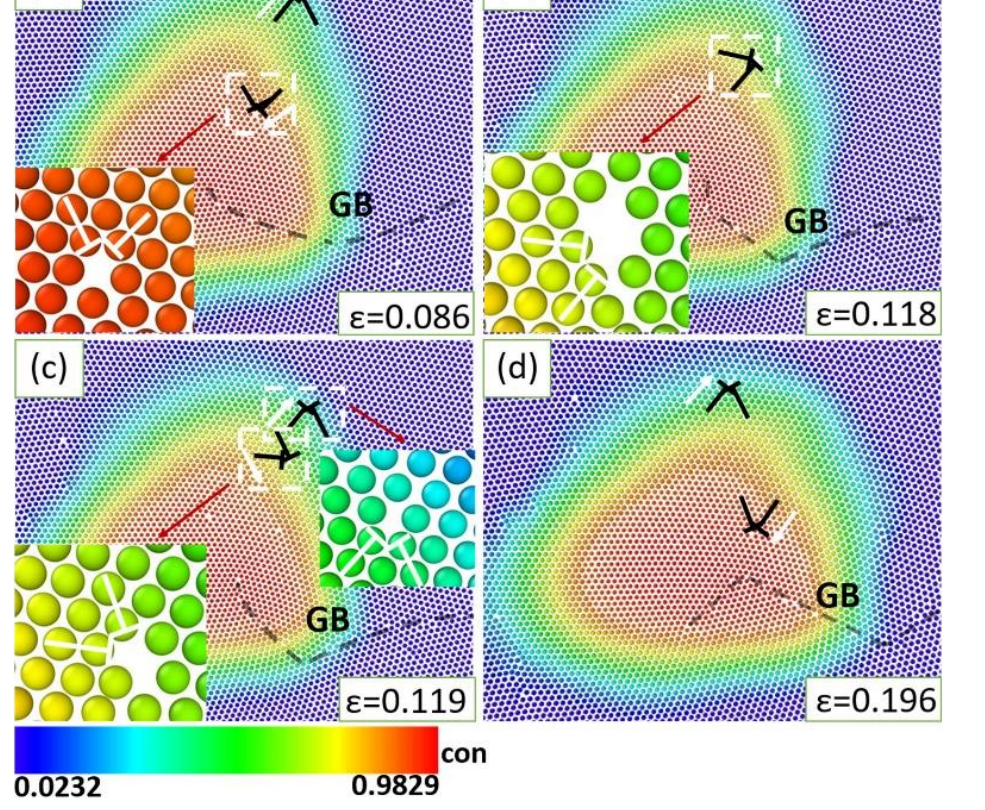
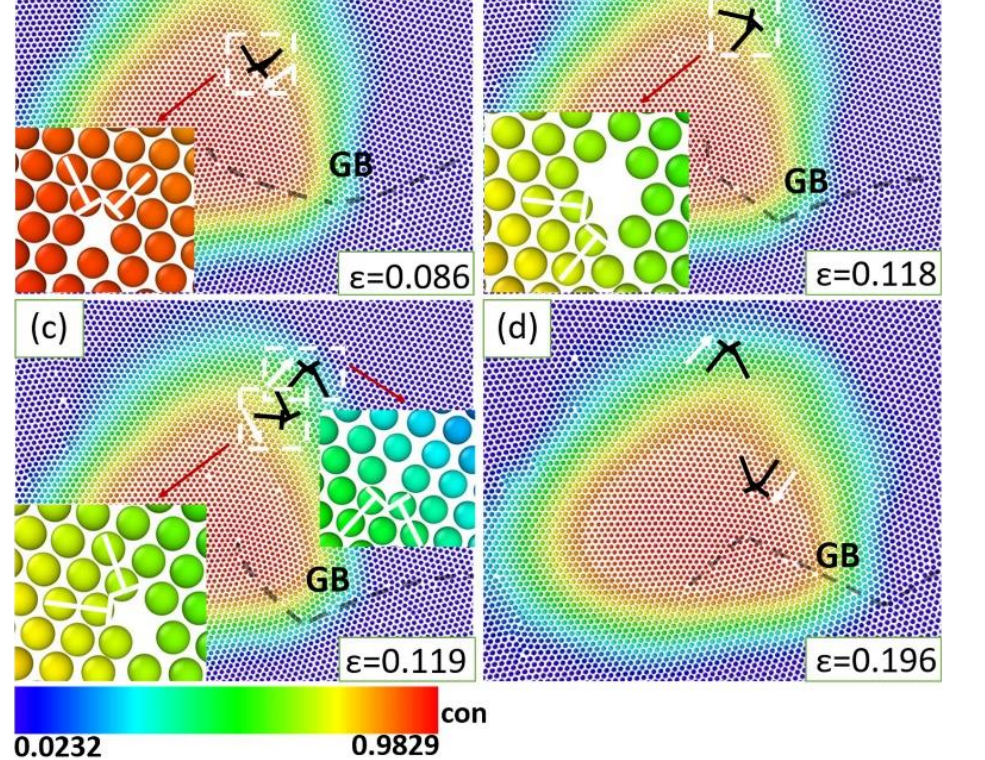
Update MID-NANO product page and case studies

diff --git a/i18n.js b/i18n.js
@@ -1464,49 +1464,39 @@ const translations = {
             },
             functions: {
                 item1: {
-                    zh: "灵活自定义微结构建模",
-                    en: "Flexible custom microstructure modeling",
-                    fr: "Modelisation microstructurale personnalisee et flexible"
+                    zh: "微结构建模",
+                    en: "Microstructure modeling",
+                    fr: "Modelisation microstructurale"
                 },
                 item2: {
-                    zh: "晶格结构演化模拟",
-                    en: "Lattice structure evolution simulation",
-                    fr: "Simulation de l'evolution des structures de reseau"
+                    zh: "晶格结构演化",
+                    en: "Lattice structure evolution",
+                    fr: "Evolution des structures de reseau"
                 },
                 item3: {
-                    zh: "多元多相体系晶体相场求解",
-                    en: "Crystal phase-field solving for multicomponent multiphase systems",
-                    fr: "Resolution par champ de phase cristallin pour systemes multicomposants multiphases"
+                    zh: "晶体相场求解",
+                    en: "Crystal phase-field solving",
+                    fr: "Resolution par champ de phase cristallin"
                 },
                 item4: {
-                    zh: "温度场耦合演化求解",
-                    en: "Temperature-field coupled evolution solving",
-                    fr: "Resolution couplee avec champ de temperature"
+                    zh: "温度场、应力场耦合",
+                    en: "Temperature- and stress-field coupling",
+                    fr: "Couplage des champs de temperature et de contraintes"
                 },
                 item5: {
-                    zh: "应力场耦合演化求解",
-                    en: "Stress-field coupled evolution solving",
-                    fr: "Resolution couplee avec champ de contraintes"
+                    zh: "缺陷与位错演化",
+                    en: "Defect and dislocation evolution",
+                    fr: "Evolution des defauts et des dislocations"
                 },
                 item6: {
-                    zh: "缺陷结构表征与演化模拟",
-                    en: "Defect structure characterization and evolution simulation",
-                    fr: "Caracterisation et simulation de l'evolution des structures de defauts"
-                },
-                item7: {
-                    zh: "位错形成与运动模拟",
-                    en: "Dislocation formation and motion simulation",
-                    fr: "Simulation de la formation et du mouvement des dislocations"
-                },
-                item8: {
-                    zh: "界面迁移与界面失稳分析",
-                    en: "Interface migration and interface instability analysis",
+                    zh: "界面迁移与失稳分析",
+                    en: "Interface migration and instability analysis",
                     fr: "Analyse de la migration et de l'instabilite des interfaces"
                 },
-                item9: {
-                    zh: "AI 辅助求解加速方案",
-                    en: "AI-assisted solver acceleration solutions",
-                    fr: "Solutions d'acceleration de solveurs assistees par IA"
+                item7: {
+                    zh: "增材制造过程模拟",
+                    en: "Additive manufacturing process simulation",
+                    fr: "Simulation des procedes de fabrication additive"
                 }
             },
             demoTitle: {
@@ -1548,39 +1538,39 @@ const translations = {
             },
             advantages: {
                 item1: {
+                    zh: "向导式 GUI",
+                    en: "Guided GUI",
+                    fr: "Interface guidee"
+                },
+                item2: {
+                    zh: "操作流程清晰、学习成本低",
+                    en: "Clear workflow with a low learning curve",
+                    fr: "Processus clair et faible cout d'apprentissage"
+                },
+                item3: {
+                    zh: "结果可视化",
+                    en: "Result visualization",
+                    fr: "Visualisation des resultats"
+                },
+                item4: {
+                    zh: "数据分析与导出",
+                    en: "Data analysis and export",
+                    fr: "Analyse et export des donnees"
+                },
+                item5: {
+                    zh: "模块化架构",
+                    en: "Modular architecture",
+                    fr: "Architecture modulaire"
+                },
+                item6: {
                     zh: "多场求解器自主可控",
                     en: "Independently controllable multiphysics solvers",
                     fr: "Solveurs multiphysiques autonomes et controlables"
                 },
-                item2: {
-                    zh: "完全自主知识产权",
-                    en: "Fully independent intellectual property rights",
-                    fr: "Droits de propriete intellectuelle entierement independants"
-                },
-                item3: {
-                    zh: "模块化的软件开发框架",
-                    en: "Modular software development framework",
-                    fr: "Architecture logicielle modulaire"
-                },
-                item4: {
-                    zh: "图形化操作界面，用户友好",
-                    en: "Graphical and user-friendly interface",
-                    fr: "Interface graphique et conviviale"
-                },
-                item5: {
-                    zh: "完善的多尺度模拟方案",
-                    en: "Comprehensive multiscale simulation solutions",
-                    fr: "Solutions completes de simulation multi-echelle"
-                },
-                item6: {
-                    zh: "开放灵活的二次开发接口",
-                    en: "Open and flexible secondary development interfaces",
-                    fr: "Interfaces ouvertes et flexibles pour developpement secondaire"
-                },
                 item7: {
-                    zh: "面向晶体相场模型的专门化设计",
-                    en: "Specialized design for crystal phase-field models",
-                    fr: "Conception specialisee pour les modeles de champ de phase cristallin"
+                    zh: "开放的二次开发接口",
+                    en: "Open secondary development interfaces",
+                    fr: "Interfaces ouvertes de developpement secondaire"
                 }
             },
             applications: {
@@ -1609,6 +1599,59 @@ const translations = {
                     en: "Low-dimensional spinodal decomposition within interfaces",
                     fr: "Decomposition spinodale de basse dimension aux interfaces"
                 }
+            },
+            additiveTitle: {
+                zh: "增材制造模拟",
+                en: "Additive Manufacturing Simulation",
+                fr: "Simulation de la fabrication additive"
+            },
+            additiveIntro: {
+                zh: "面向选区激光烧结与激光熔融过程，模拟激光热输入、熔池演化、快速凝固及晶体组织形成，分析工艺参数对熔池稳定性、致密度和微观组织的影响。",
+                en: "Simulate selective laser sintering and laser melting, including laser heat input, melt-pool evolution, rapid solidification, and crystal-structure formation.",
+                fr: "Simulation du frittage laser sur lit de poudre et de la fusion laser, incluant l'apport thermique, l'evolution du bain de fusion et la solidification rapide."
+            },
+            additive: {
+                item1: { zh: "激光粉末床烧结与熔融过程模拟", en: "Laser powder-bed sintering and melting simulation", fr: "Simulation du frittage et de la fusion laser sur lit de poudre" },
+                item2: { zh: "激光功率、扫描速度与预热条件分析", en: "Analysis of laser power, scan speed, and preheating conditions", fr: "Analyse de la puissance laser, de la vitesse de balayage et du prechauffage" },
+                item3: { zh: "熔池温度场、深度与连续性预测", en: "Prediction of melt-pool temperature, depth, and continuity", fr: "Prediction de la temperature, de la profondeur et de la continuite du bain de fusion" },
+                item4: { zh: "烧结致密度与工艺窗口分析", en: "Sintering density and process-window analysis", fr: "Analyse de la densite de frittage et de la fenetre de procede" },
+                item5: { zh: "柱状晶与等轴晶竞争生长模拟", en: "Simulation of competitive columnar and equiaxed grain growth", fr: "Simulation de la croissance competitive des grains colonnaires et equiaxes" },
+                demos: {
+                    process: { zh: "激光粉末床烧结过程与温度场演化", en: "Laser powder-bed sintering and temperature-field evolution", fr: "Evolution du frittage laser et du champ de temperature" },
+                    window: { zh: "激光参数对熔池和烧结致密度的影响", en: "Effects of laser parameters on melt pools and sintering density", fr: "Effets des parametres laser sur le bain de fusion et la densite" },
+                    grains: { zh: "柱状晶与等轴晶竞争生长", en: "Competitive columnar and equiaxed grain growth", fr: "Croissance competitive des grains colonnaires et equiaxes" }
+                }
+            },
+            workflowTitle: { zh: "向导式 GUI 与结果可视化", en: "Guided GUI and Result Visualization", fr: "Interface guidee et visualisation des resultats" },
+            workflowIntro: { zh: "向导式 GUI 将复杂模拟流程拆解为五步，帮助用户完成参数设置、计算域定义、外力条件配置、演化模拟和结果分析。", en: "The guided GUI breaks complex simulations into five steps covering parameter setup, domain definition, external conditions, evolution simulation, and result analysis.", fr: "L'interface guidee divise les simulations complexes en cinq etapes." },
+            workflow: {
+                item1: { zh: "初始化参数", en: "Initialize parameters", fr: "Initialisation des parametres" },
+                item2: { zh: "计算域与晶格定义", en: "Define the computational domain and lattice", fr: "Definition du domaine de calcul et du reseau" },
+                item3: { zh: "外力条件配置", en: "Configure external conditions", fr: "Configuration des conditions externes" },
+                item4: { zh: "凝固演化模拟", en: "Simulate solidification evolution", fr: "Simulation de l'evolution de la solidification" },
+                item5: { zh: "结果可视化、分析与导出", en: "Visualize, analyze, and export results", fr: "Visualisation, analyse et export des resultats" }
+            },
+            rareEarthTitle: { zh: "稀土合金凝固案例", en: "Rare-Earth Alloy Solidification Case", fr: "Cas de solidification d'un alliage de terres rares" },
+            rareEarthIntro: { zh: "基于稀土热力学数据修正晶体相场模型，分析稀土合金凝固过程中的晶粒形貌、取向分布、尺寸演化及组织形成机制。", en: "Using rare-earth thermodynamic data to refine the crystal phase-field model, this case analyzes grain morphology, orientation distribution, size evolution, and microstructure formation.", fr: "Ce cas analyse la morphologie, l'orientation et la taille des grains lors de la solidification d'un alliage de terres rares." },
+            rareEarth: {
+                demos: {
+                    solidification: { zh: "稀土合金凝固过程与组织演化预测", en: "Rare-earth alloy solidification and microstructure evolution", fr: "Solidification et evolution microstructurale d'un alliage de terres rares" },
+                    morphology: { zh: "过冷度对晶粒形貌的影响", en: "Effect of undercooling on grain morphology", fr: "Effet du sous-refroidissement sur la morphologie des grains" },
+                    statistics: { zh: "晶粒数量、尺寸、取向与长宽比统计", en: "Statistics of grain count, size, orientation, and aspect ratio", fr: "Statistiques du nombre, de la taille, de l'orientation et du rapport d'aspect des grains" }
+                }
+            },
+            caseStudiesTitle: {
+                zh: "典型应用与计算案例",
+                en: "Typical Applications and Calculation Cases",
+                fr: "Applications typiques et cas de calcul"
+            },
+            caseStudies: {
+                additiveTitle: { zh: "增材制造过程模拟", en: "Additive Manufacturing Process Simulation", fr: "Simulation des procedes de fabrication additive" },
+                additiveIntro: { zh: "分析激光热输入、熔池演化、烧结致密度及快速凝固组织。", en: "Analyze laser heat input, melt-pool evolution, sintering density, and rapidly solidified microstructures.", fr: "Analyser l'apport thermique laser, l'evolution du bain de fusion, la densite de frittage et les microstructures solidifiees rapidement." },
+                rareEarthTitle: { zh: "合金凝固与组织预测", en: "Alloy Solidification and Microstructure Prediction", fr: "Solidification des alliages et prediction microstructurale" },
+                rareEarthIntro: { zh: "分析过冷度对晶粒形貌、取向分布和组织统计结果的影响。", en: "Analyze the effects of undercooling on grain morphology, orientation distribution, and quantitative microstructure statistics.", fr: "Analyser les effets du sous-refroidissement sur la morphologie, l'orientation et les statistiques quantitatives de la microstructure." },
+                nanoscaleTitle: { zh: "纳米结构与缺陷演化", en: "Nanoscale Structure and Defect Evolution", fr: "Evolution des structures et defauts a l'echelle nanometrique" },
+                nanoscaleIntro: { zh: "展示非晶—纳米晶形成、晶界析出与界面缺陷演化等纳观尺度结果。", en: "Show nanoscale results for amorphous-nanocrystalline formation, grain-boundary precipitation, and interfacial defect evolution.", fr: "Presenter des resultats nanometriques sur les structures amorphes-nanocristallines, la precipitation aux joints de grains et les defauts interfaciaux." }
             }
         },
         midMeso: {

diff --git a/mid-nano.html b/mid-nano.html
@@ -64,71 +64,90 @@
                     <article class="detail-card">
                         <h2 data-i18n="softwareDetails.common.functionsTitle">主要功能</h2>
                         <ul class="feature-list">
-                            <li data-i18n="softwareDetails.midNano.functions.item1">灵活自定义微结构建模</li>
-                            <li data-i18n="softwareDetails.midNano.functions.item2">晶格结构演化模拟</li>
-                            <li data-i18n="softwareDetails.midNano.functions.item3">多元多相体系晶体相场求解</li>
-                            <li data-i18n="softwareDetails.midNano.functions.item4">温度场耦合演化求解</li>
-                            <li data-i18n="softwareDetails.midNano.functions.item5">应力场耦合演化求解</li>
-                            <li data-i18n="softwareDetails.midNano.functions.item6">缺陷结构表征与演化模拟</li>
-                            <li data-i18n="softwareDetails.midNano.functions.item7">位错形成与运动模拟</li>
-                            <li data-i18n="softwareDetails.midNano.functions.item8">界面迁移与界面失稳分析</li>
-                            <li data-i18n="softwareDetails.midNano.functions.item9">AI 辅助求解加速方案</li>
+                            <li data-i18n="softwareDetails.midNano.functions.item1">微结构建模</li>
+                            <li data-i18n="softwareDetails.midNano.functions.item2">晶格结构演化</li>
+                            <li data-i18n="softwareDetails.midNano.functions.item3">晶体相场求解</li>
+                            <li data-i18n="softwareDetails.midNano.functions.item4">温度场、应力场耦合</li>
+                            <li data-i18n="softwareDetails.midNano.functions.item5">缺陷与位错演化</li>
+                            <li data-i18n="softwareDetails.midNano.functions.item6">界面迁移与失稳分析</li>
+                            <li data-i18n="softwareDetails.midNano.functions.item7">增材制造过程模拟</li>
                         </ul>
-                    </article>
-
-                    <article class="detail-card">
-                        <h2 data-i18n="softwareDetails.midNano.demoTitle">代表性计算结果</h2>
-                        <div class="demo-gallery">
-                            <figure class="demo-card">
-                                <img src="assets/software-demos/mid-nano/amorphous-nanocrystal.png" alt="MID-NANO 非晶-纳米晶复合结构形成结果" loading="lazy" />
-                                <figcaption data-i18n="softwareDetails.midNano.demos.amorphous">非晶-纳米晶复合结构形成</figcaption>
-                            </figure>
-                            <figure class="demo-card">
-                                <img src="assets/software-demos/mid-nano/nanolayer-evolution.png" alt="MID-NANO 纳米多层结构原子级演化结果" loading="lazy" />
-                                <figcaption data-i18n="softwareDetails.midNano.demos.nanolayer">纳米多层结构原子级演化</figcaption>
-                            </figure>
-                            <figure class="demo-card">
-                                <img src="assets/software-demos/mid-nano/grain-boundary-precipitation.png" alt="MID-NANO 晶界诱导析出结果" loading="lazy" />
-                                <figcaption data-i18n="softwareDetails.midNano.demos.precipitation">晶界诱导析出</figcaption>
-                            </figure>
-                            <figure class="demo-card">
-                                <img src="assets/software-demos/mid-nano/misfit-morphology.png" alt="MID-NANO 晶格错配度对析出相形貌影响结果" loading="lazy" />
-                                <figcaption data-i18n="softwareDetails.midNano.demos.misfit">晶格错配度对析出相形貌的影响</figcaption>
-                            </figure>
-                            <figure class="demo-card">
-                                <img src="assets/software-demos/mid-nano/interface-defect-evolution.png" alt="MID-NANO 析出相与基体相界面缺陷演化结果" loading="lazy" />
-                                <figcaption data-i18n="softwareDetails.midNano.demos.interfaceDefect">析出相-基体相界面缺陷演化</figcaption>
-                            </figure>
-                            <figure class="demo-card">
-                                <img src="assets/software-demos/mid-nano/low-dimensional-spinodal.png" alt="MID-NANO 界面内低维调幅分解结果" loading="lazy" />
-                                <figcaption data-i18n="softwareDetails.midNano.demos.spinodal">晶界内部低维调幅分解</figcaption>
-                            </figure>
-                        </div>
                     </article>
 
                     <article class="detail-card">
                         <h2 data-i18n="softwareDetails.common.advantagesTitle">核心优势</h2>
                         <ul class="feature-list">
-                            <li data-i18n="softwareDetails.midNano.advantages.item1">多场求解器自主可控</li>
-                            <li data-i18n="softwareDetails.midNano.advantages.item2">完全自主知识产权</li>
-                            <li data-i18n="softwareDetails.midNano.advantages.item3">模块化的软件开发框架</li>
-                            <li data-i18n="softwareDetails.midNano.advantages.item4">图形化操作界面，用户友好</li>
-                            <li data-i18n="softwareDetails.midNano.advantages.item5">完善的多尺度模拟方案</li>
-                            <li data-i18n="softwareDetails.midNano.advantages.item6">开放灵活的二次开发接口</li>
-                            <li data-i18n="softwareDetails.midNano.advantages.item7">面向晶体相场模型的专门化设计</li>
+                            <li data-i18n="softwareDetails.midNano.advantages.item1">向导式 GUI</li>
+                            <li data-i18n="softwareDetails.midNano.advantages.item2">操作流程清晰、学习成本低</li>
+                            <li data-i18n="softwareDetails.midNano.advantages.item3">结果可视化</li>
+                            <li data-i18n="softwareDetails.midNano.advantages.item4">数据分析与导出</li>
+                            <li data-i18n="softwareDetails.midNano.advantages.item5">模块化架构</li>
+                            <li data-i18n="softwareDetails.midNano.advantages.item6">多场求解器自主可控</li>
+                            <li data-i18n="softwareDetails.midNano.advantages.item7">开放的二次开发接口</li>
                         </ul>
                     </article>
 
                     <article class="detail-card">
-                        <h2 data-i18n="softwareDetails.common.applicationsTitle">典型应用</h2>
-                        <ul class="feature-list">
-                            <li data-i18n="softwareDetails.midNano.applications.item1">非晶-纳米晶复合结构形成</li>
-                            <li data-i18n="softwareDetails.midNano.applications.item2">纳米多层结构原子级演化</li>
-                            <li data-i18n="softwareDetails.midNano.applications.item3">晶界诱导析出与界面缺陷演化</li>
-                            <li data-i18n="softwareDetails.midNano.applications.item4">晶格错配对析出相形貌影响</li>
-                            <li data-i18n="softwareDetails.midNano.applications.item5">界面内低维调幅分解研究</li>
-                        </ul>
+                        <h2 data-i18n="softwareDetails.midNano.caseStudiesTitle">典型应用与计算案例</h2>
+
+                        <section class="case-study">
+                            <h3 data-i18n="softwareDetails.midNano.caseStudies.additiveTitle">增材制造过程模拟</h3>
+                            <p data-i18n="softwareDetails.midNano.caseStudies.additiveIntro">分析激光热输入、熔池演化、烧结致密度及快速凝固组织。</p>
+                            <div class="demo-gallery">
+                                <figure class="demo-card">
+                                    <img src="assets/software-demos/mid-nano/additive-manufacturing.png" alt="MID-NANO 激光粉末床烧结模拟结果" loading="lazy" />
+                                    <figcaption data-i18n="softwareDetails.midNano.additive.demos.process">激光粉末床烧结过程与温度场演化</figcaption>
+                                </figure>
+                                <figure class="demo-card">
+                                    <img src="assets/software-demos/mid-nano/additive-process-window.png" alt="MID-NANO 激光参数与烧结致密度分析" loading="lazy" />
+                                    <figcaption data-i18n="softwareDetails.midNano.additive.demos.window">激光参数对熔池和烧结致密度的影响</figcaption>
+                                </figure>
+                                <figure class="demo-card">
+                                    <img src="assets/software-demos/mid-nano/additive-grain-growth.png" alt="MID-NANO 激光熔融柱状晶和等轴晶竞争生长模拟" loading="lazy" />
+                                    <figcaption data-i18n="softwareDetails.midNano.additive.demos.grains">柱状晶与等轴晶竞争生长</figcaption>
+                                </figure>
+                            </div>
+                        </section>
+
+                        <section class="case-study">
+                            <h3 data-i18n="softwareDetails.midNano.caseStudies.rareEarthTitle">合金凝固与组织预测</h3>
+                            <p data-i18n="softwareDetails.midNano.caseStudies.rareEarthIntro">分析过冷度对晶粒形貌、取向分布和组织统计结果的影响。</p>
+                            <div class="demo-gallery">
+                                <figure class="demo-card">
+                                    <img src="assets/software-demos/mid-nano/rare-earth-solidification.png" alt="MID-NANO 稀土合金凝固过程预测" loading="lazy" />
+                                    <figcaption data-i18n="softwareDetails.midNano.rareEarth.demos.solidification">稀土合金凝固过程与组织演化预测</figcaption>
+                                </figure>
+                                <figure class="demo-card">
+                                    <img src="assets/software-demos/mid-nano/rare-earth-grain-growth.png" alt="MID-NANO 过冷度对稀土合金晶粒形貌的影响" loading="lazy" />
+                                    <figcaption data-i18n="softwareDetails.midNano.rareEarth.demos.morphology">过冷度对晶粒形貌的影响</figcaption>
+                                </figure>
+                                <figure class="demo-card">
+                                    <img src="assets/software-demos/mid-nano/rare-earth-grain-statistics.png" alt="MID-NANO 稀土合金晶粒组织定量统计" loading="lazy" />
+                                    <figcaption data-i18n="softwareDetails.midNano.rareEarth.demos.statistics">晶粒数量、尺寸、取向与长宽比统计</figcaption>
+                                </figure>
+                            </div>
+                        </section>
+
+                        <section class="case-study">
+                            <h3 data-i18n="softwareDetails.midNano.caseStudies.nanoscaleTitle">纳米结构与缺陷演化</h3>
+                            <p data-i18n="softwareDetails.midNano.caseStudies.nanoscaleIntro">展示非晶—纳米晶形成、晶界析出与界面缺陷演化等纳观尺度结果。</p>
+                            <div class="demo-gallery">
+                                <figure class="demo-card">
+                                    <img src="assets/software-demos/mid-nano/amorphous-nanocrystal.png" alt="MID-NANO 非晶-纳米晶复合结构形成结果" loading="lazy" />
+                                    <figcaption data-i18n="softwareDetails.midNano.demos.amorphous">非晶-纳米晶复合结构形成</figcaption>
+                                </figure>
+                                <figure class="demo-card">
+                                    <img src="assets/software-demos/mid-nano/grain-boundary-precipitation.png" alt="MID-NANO 晶界诱导析出结果" loading="lazy" />
+                                    <figcaption data-i18n="softwareDetails.midNano.demos.precipitation">晶界诱导析出</figcaption>
+                                </figure>
+                                <figure class="demo-card">
+                                    <img src="assets/software-demos/mid-nano/interface-defect-evolution.png" alt="MID-NANO 析出相与基体相界面缺陷演化结果" loading="lazy" />
+                                    <figcaption data-i18n="softwareDetails.midNano.demos.interfaceDefect">析出相-基体相界面缺陷演化</figcaption>
+                                </figure>
+                            </div>
+                        </section>
                     </article>
+
 
                     <article class="detail-card">
                         <h2 data-i18n="softwareDetails.common.downloadTitle">资料下载</h2>

diff --git a/styles.css b/styles.css
@@ -856,6 +856,22 @@ footer p {
     margin-top: 26px;
 }
 
+.case-study + .case-study {
+    margin-top: 42px;
+    padding-top: 34px;
+    border-top: 1px solid var(--border);
+}
+
+.case-study h3 {
+    margin-bottom: 8px;
+    color: #1d4e96;
+    font-size: 1.12rem;
+}
+
+.case-study p {
+    margin-bottom: 14px;
+}
+
 .demo-card {
     overflow: hidden;
     border: 1px solid var(--border);
